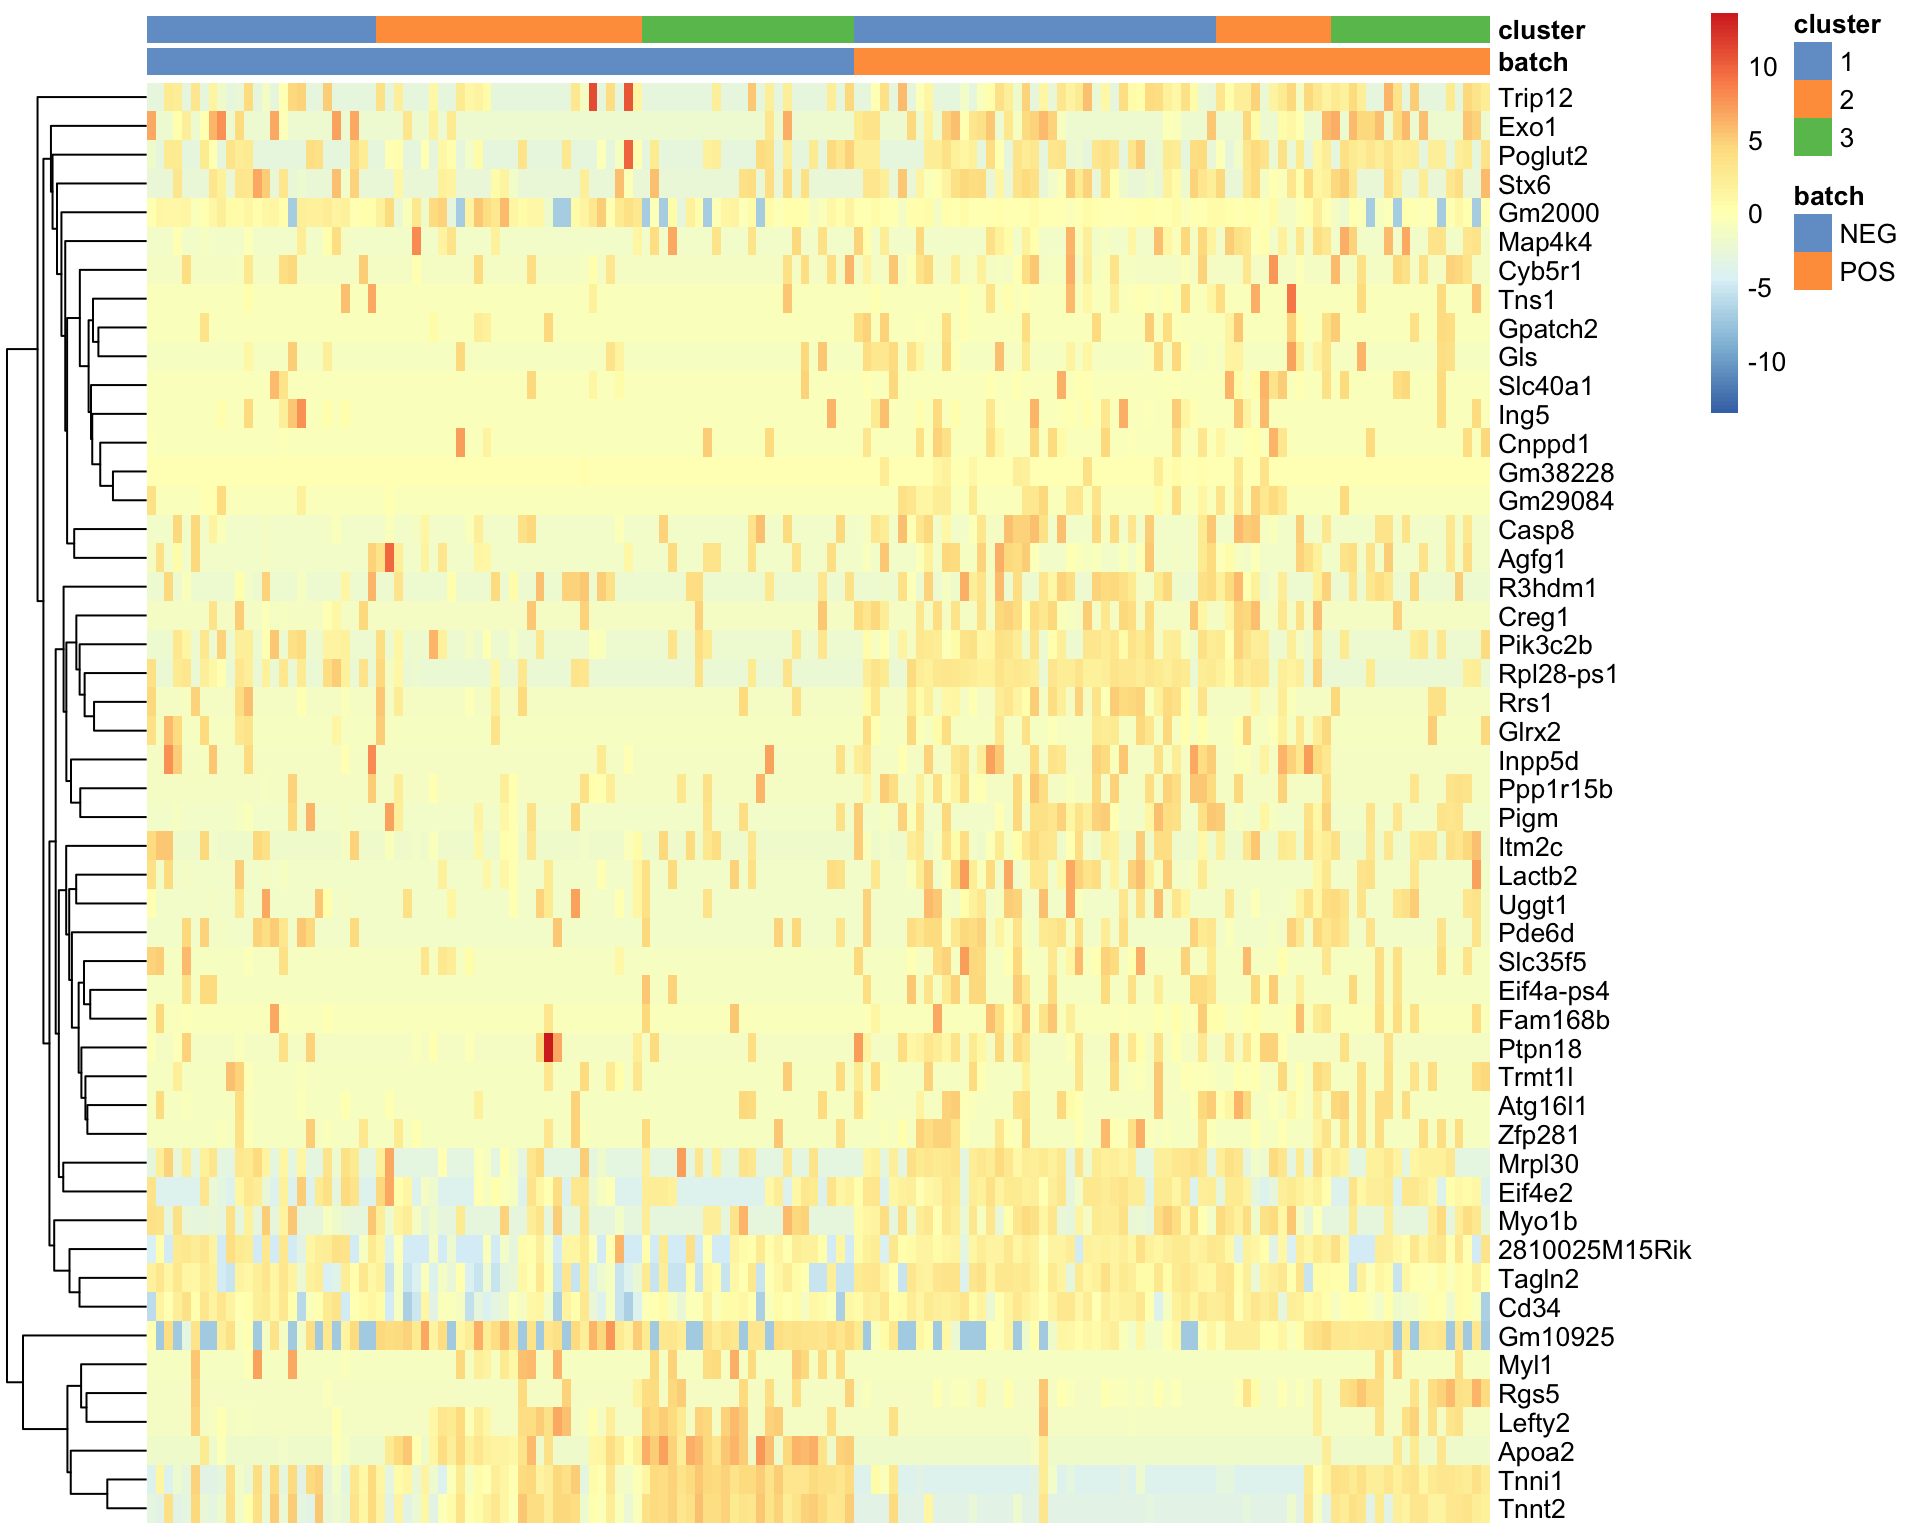
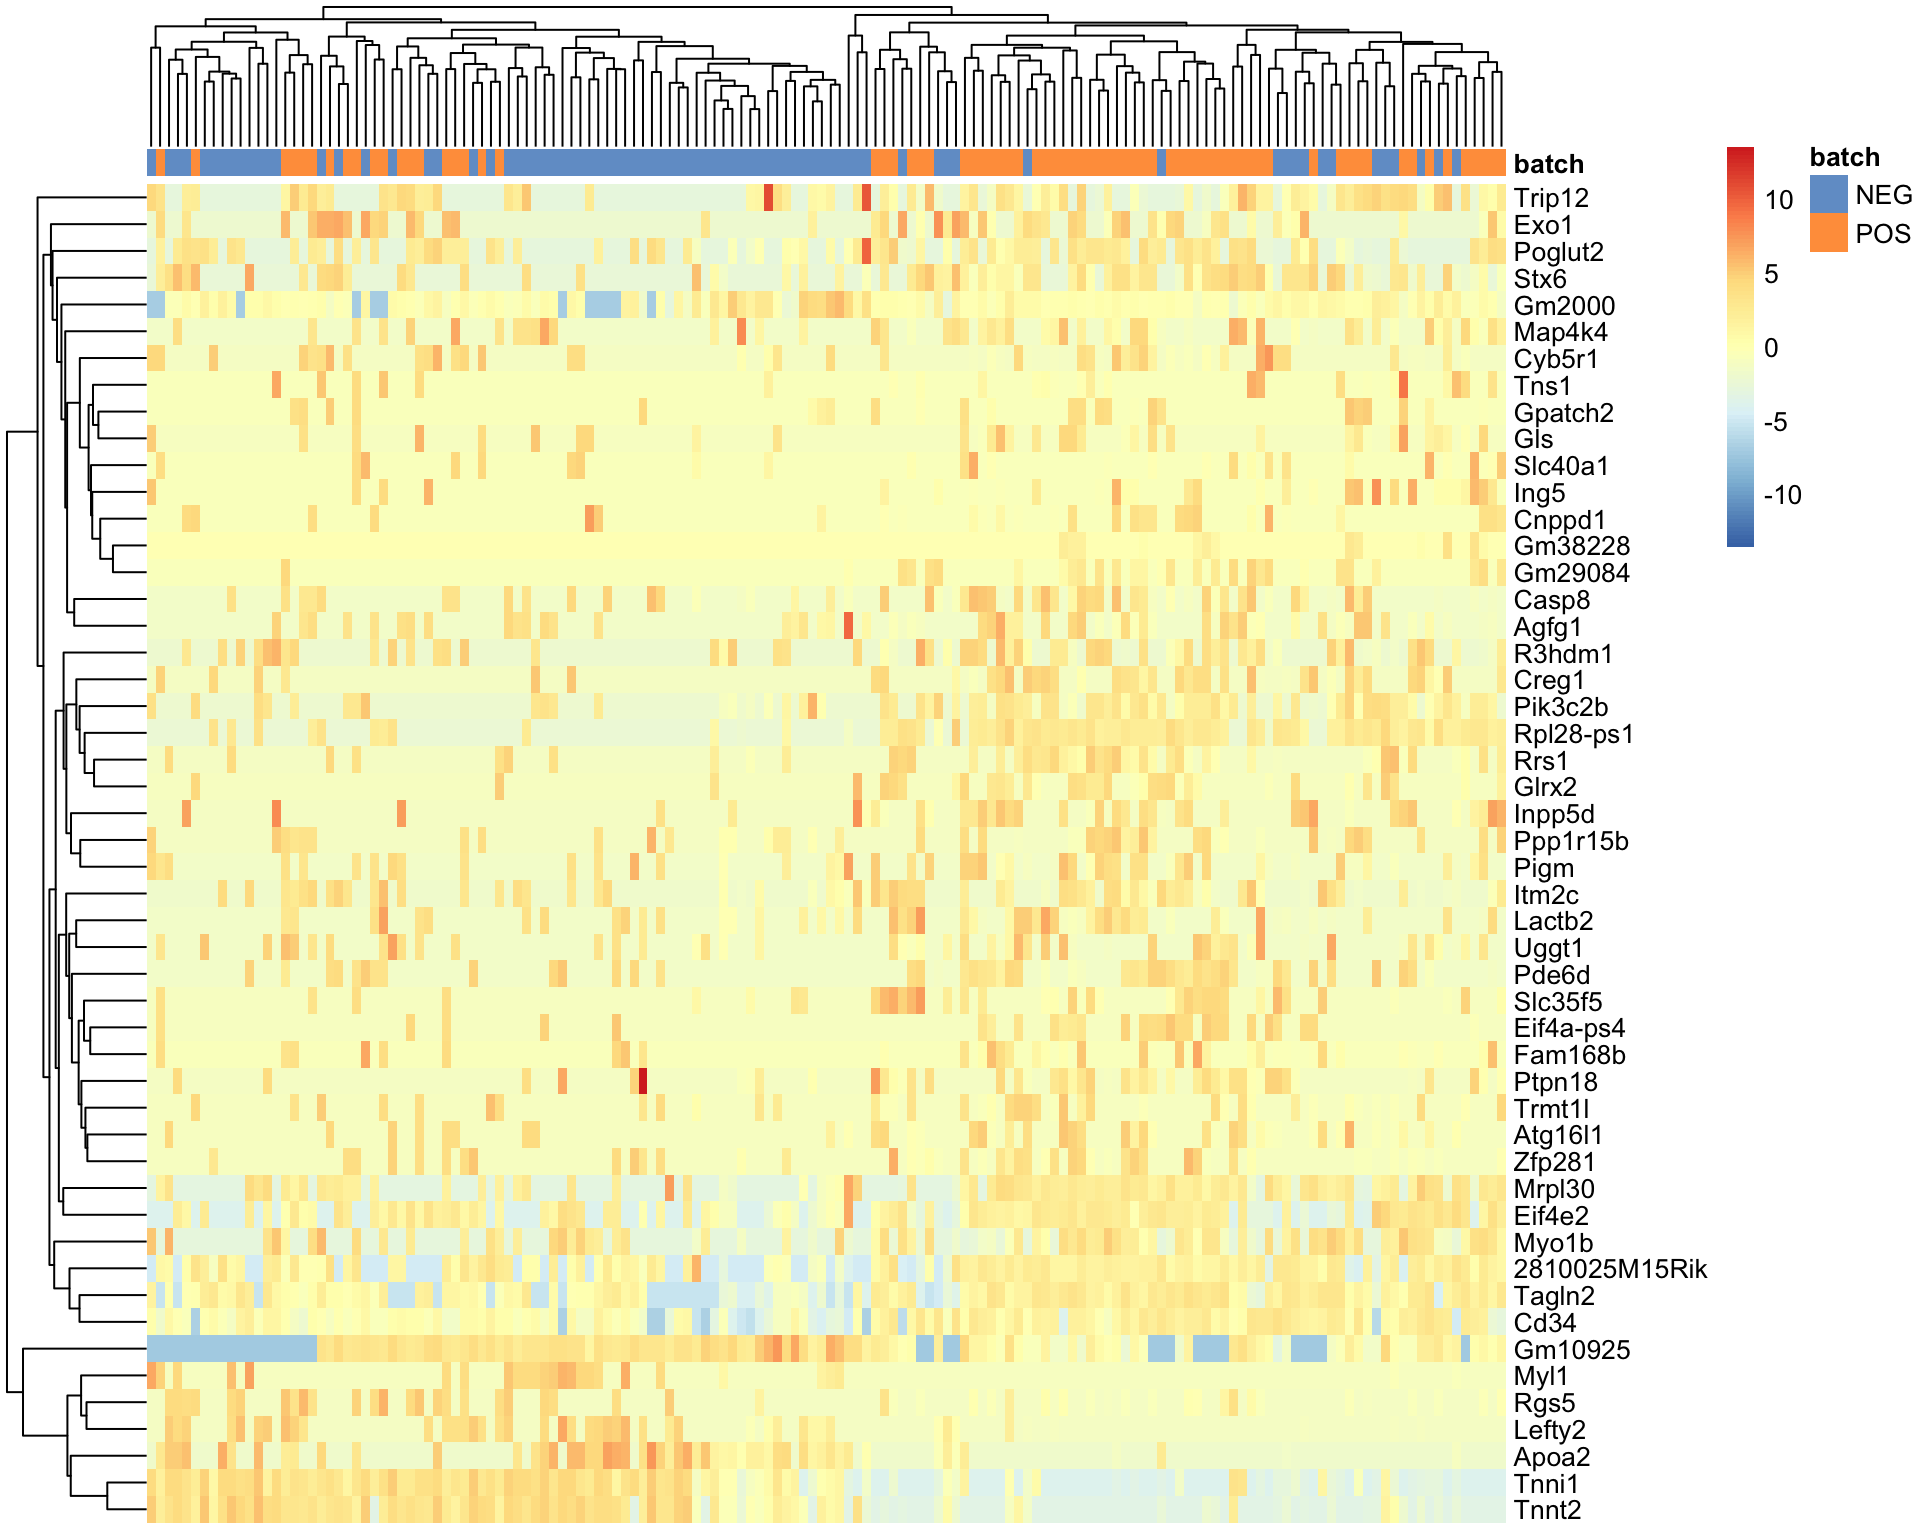
build

diff --git a/docs/05-sample-comparisons.html b/docs/05-sample-comparisons.html
@@ -534,16 +534,16 @@ This reproducible <a href="http://rmarkdown.rstudio.com">R Markdown</a> analysis
 <div class="panel panel-default">
 <div class="panel-heading">
 <p class="panel-title">
-<a data-toggle="collapse" data-parent="#workflowr-checks" href="#strongRepositoryversionstrongahrefhttpsgithubcomjma1991AGMGFPtree3ea2900c8f475587eb5102e0ef8a94360949256atargetblank3ea2900a"> <span class="glyphicon glyphicon-ok text-success" aria-hidden="true"></span> <strong>Repository version:</strong> <a href="https://github.com/jma1991/AGM_GFP/tree/3ea2900c8f475587eb5102e0ef8a94360949256a" target="_blank">3ea2900</a> </a>
+<a data-toggle="collapse" data-parent="#workflowr-checks" href="#strongRepositoryversionstrongahrefhttpsgithubcomjma1991AGMGFPtree53cd9e220329bf3bab587b325c9c70473ba4a428targetblank53cd9e2a"> <span class="glyphicon glyphicon-ok text-success" aria-hidden="true"></span> <strong>Repository version:</strong> <a href="https://github.com/jma1991/AGM_GFP/tree/53cd9e220329bf3bab587b325c9c70473ba4a428" target="_blank">53cd9e2</a> </a>
 </p>
 </div>
[2 lines of base64/hex data omitted]
 <div class="panel-body">
 <p>
 Great! You are using Git for version control. Tracking code development and connecting the code version to the results is critical for reproducibility.
 </p>
 <p>
-The results in this page were generated with repository version <a href="https://github.com/jma1991/AGM_GFP/tree/3ea2900c8f475587eb5102e0ef8a94360949256a" target="_blank">3ea2900</a>. See the <em>Past versions</em> tab to see a history of the changes made to the R Markdown and HTML files.
+The results in this page were generated with repository version <a href="https://github.com/jma1991/AGM_GFP/tree/53cd9e220329bf3bab587b325c9c70473ba4a428" target="_blank">53cd9e2</a>. See the <em>Past versions</em> tab to see a history of the changes made to the R Markdown and HTML files.
 </p>
 <p>
 Note that you need to be careful to ensure that all relevant files for the analysis have been committed to Git prior to generating the results (you can use <code>wflow_publish</code> or <code>wflow_git_commit</code>). workflowr only checks the R Markdown file, but you know if there are other scripts or data files that it depends on. Below is the status of the Git repository when the results were generated:
@@ -605,6 +605,40 @@ Message
 </tr>
 </thead>
 <tbody>
+<tr>
+<td>
+html
+</td>
+<td>
+<a href="https://rawcdn.githack.com/jma1991/AGM_GFP/53cd9e220329bf3bab587b325c9c70473ba4a428/docs/05-sample-comparisons.html" target="_blank">53cd9e2</a>
+</td>
+<td>
+James Ashmore
+</td>
+<td>
+2020-07-20
+</td>
+<td>
+build
+</td>
+</tr>
+<tr>
+<td>
+Rmd
+</td>
+<td>
+<a href="https://github.com/jma1991/AGM_GFP/blob/8dc0648064c9ddef3f30097dfc5f77de7cb2b8a2/analysis/05-sample-comparisons.Rmd" target="_blank">8dc0648</a>
+</td>
+<td>
+James Ashmore
+</td>
+<td>
+2020-07-20
+</td>
+<td>
+publish
+</td>
+</tr>
 <tr>
 <td>
 html
@@ -673,7 +707,7 @@ library(scran)</code></pre>
 <h2>Differential expression</h2>
 <div id="condition" class="section level3">
 <h3>Condition</h3>
-<p>Identify genes affected by condition across clusters:</p>
+<p>Identify genes affected by condition:</p>
 <pre class="r"><code>res &lt;- pairwiseWilcox(x = logcounts(sce), groups = sce$phenotype)
 
 lab &lt;- paste(res$pairs$first, &quot;vs&quot;, res$pairs$second)
@@ -711,7 +745,7 @@ sig &lt;- Filter(nrow, sig)</code></pre>
 
   cat(&quot;#####&quot;, n, &quot;\n&quot;)
   
-  plotHeatmap(sce, ids, center = TRUE, symmetric = TRUE, colour_columns_by = c(&quot;batch&quot;, &quot;cluster&quot;), order_columns_by = c(&quot;batch&quot;, &quot;cluster&quot;), show_colnames = FALSE)
+  plotHeatmap(sce, ids, center = TRUE, symmetric = TRUE, colour_columns_by = &quot;batch&quot;, show_colnames = FALSE)
   
   cat(&quot;\n\n&quot;)
   
@@ -743,6 +777,17 @@ Date
 <tbody>
 <tr>
 <td>
+<a href="https://github.com/jma1991/AGM_GFP/blob/53cd9e220329bf3bab587b325c9c70473ba4a428/docs/figure/05-sample-comparisons.Rmd/unnamed-chunk-7-1.png" target="_blank">53cd9e2</a>
+</td>
+<td>
+James Ashmore
+</td>
+<td>
+2020-07-20
+</td>
+</tr>
+<tr>
+<td>
 <a href="https://github.com/jma1991/AGM_GFP/blob/3ea2900c8f475587eb5102e0ef8a94360949256a/docs/figure/05-sample-comparisons.Rmd/unnamed-chunk-7-1.png" target="_blank">3ea2900</a>
 </td>
 <td>
@@ -769,7 +814,7 @@ James Ashmore
 
   ids &lt;- rownames(dat)
 
-  plt &lt;- lapply(ids, function(x) plotUMAP(sce, colour_by = x, shape_by = &quot;batch&quot;, text_by = &quot;cluster&quot;) + ggtitle(x))
+  plt &lt;- lapply(ids, function(x) plotUMAP(sce, colour_by = x, shape_by = &quot;batch&quot;) + ggtitle(x))
 
   cat(&quot;#####&quot;, n, &quot;\n&quot;)
 
@@ -803,6 +848,17 @@ Date
 </tr>
 </thead>
 <tbody>
+<tr>
+<td>
+<a href="https://github.com/jma1991/AGM_GFP/blob/53cd9e220329bf3bab587b325c9c70473ba4a428/docs/figure/05-sample-comparisons.Rmd/unnamed-chunk-8-1.png" target="_blank">53cd9e2</a>
+</td>
+<td>
+James Ashmore
+</td>
+<td>
+2020-07-20
+</td>
+</tr>
 <tr>
 <td>
 <a href="https://github.com/jma1991/AGM_GFP/blob/3ea2900c8f475587eb5102e0ef8a94360949256a/docs/figure/05-sample-comparisons.Rmd/unnamed-chunk-8-1.png" target="_blank">3ea2900</a>
